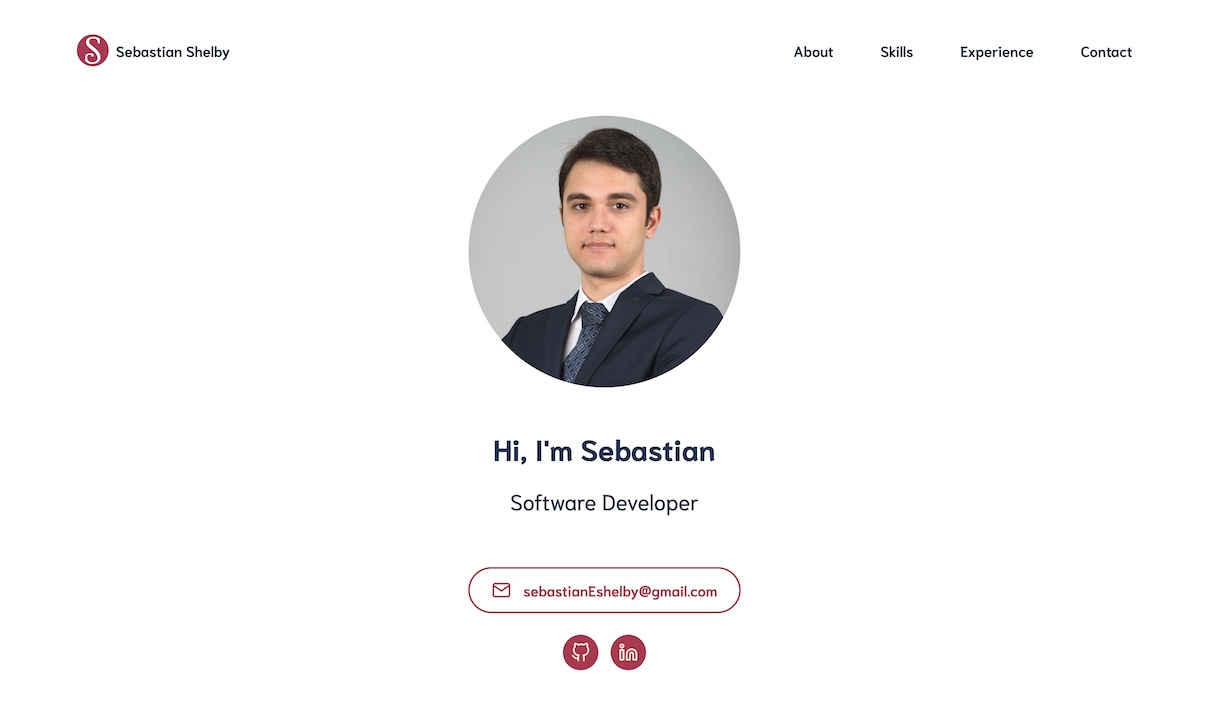
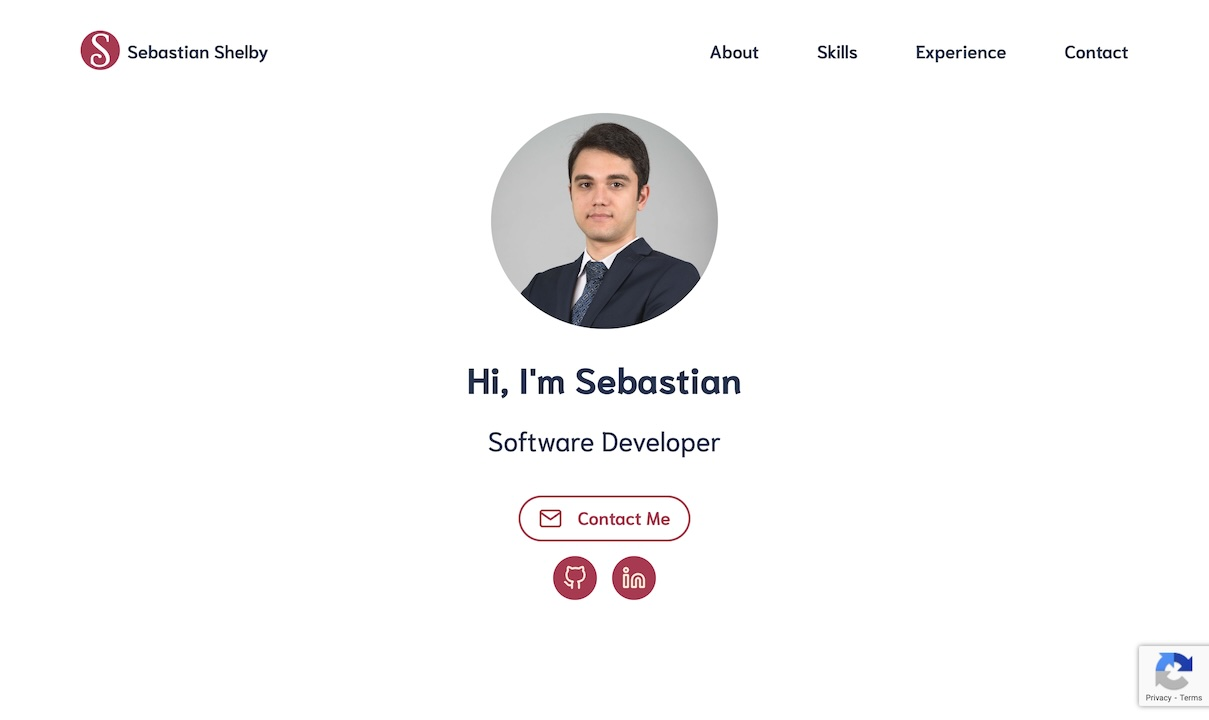
Update thumbnail, Add Jest to skills (#31)
* add jest to skills section

* update thumbnail

---------

diff --git a/src/index.html b/src/index.html
@@ -254,6 +254,11 @@
             </div>
 
             <div class="skill-icon">
+              <i class="devicon-jest-plain colored devicon"></i>
+              <span>Jest</span>
+            </div>
+
+            <div class="skill-icon">
               <i class="devicon-sass-plain colored devicon"></i>
               <span>Sass</span>
             </div>
